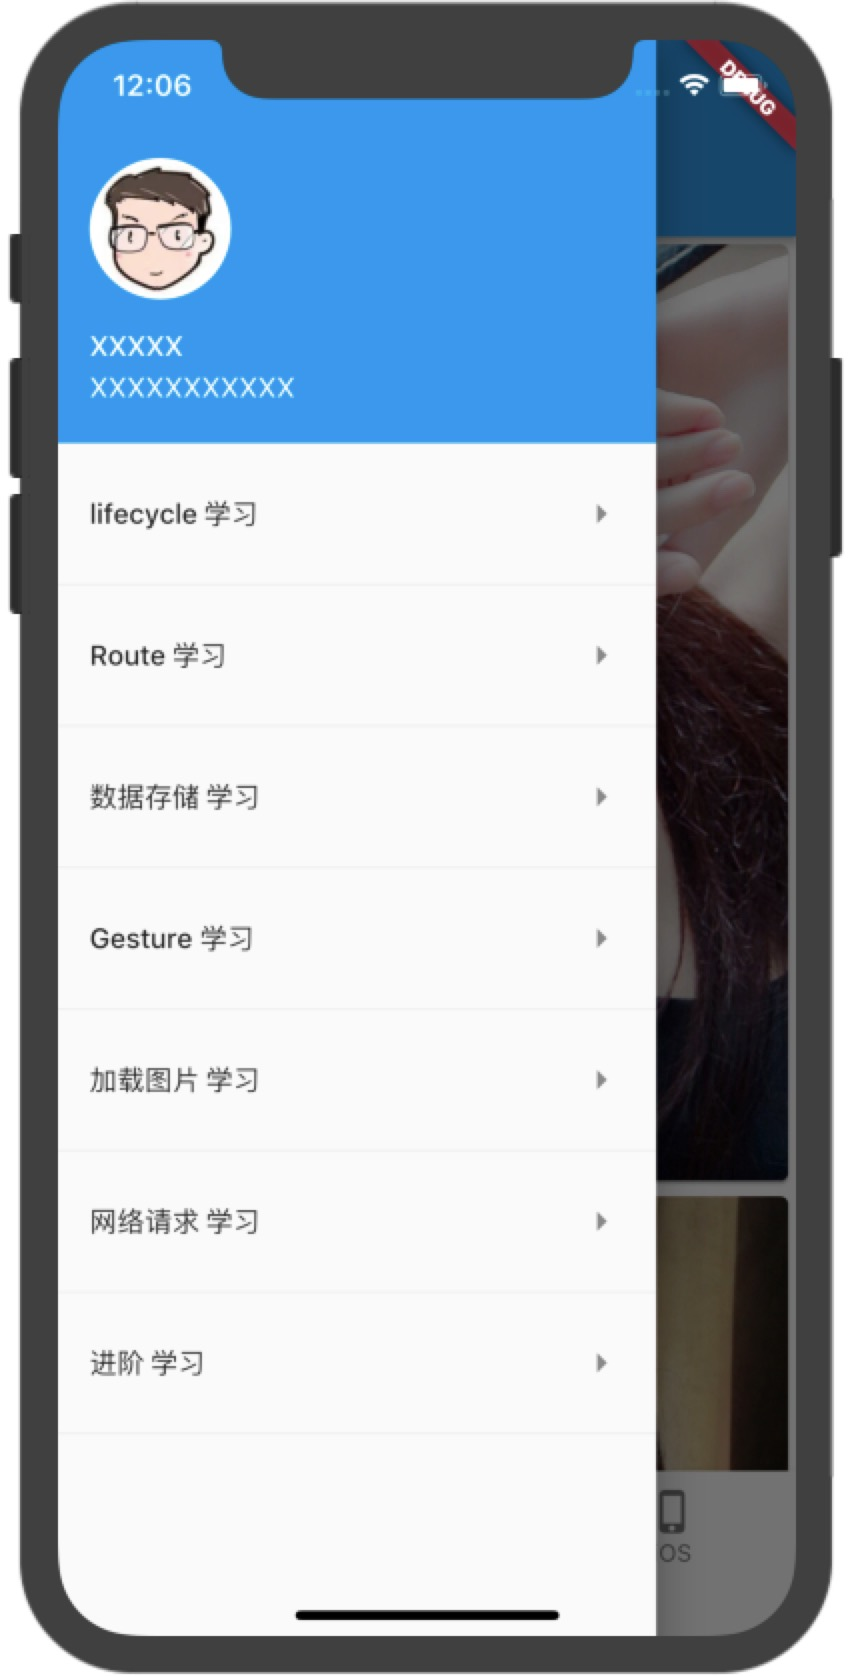
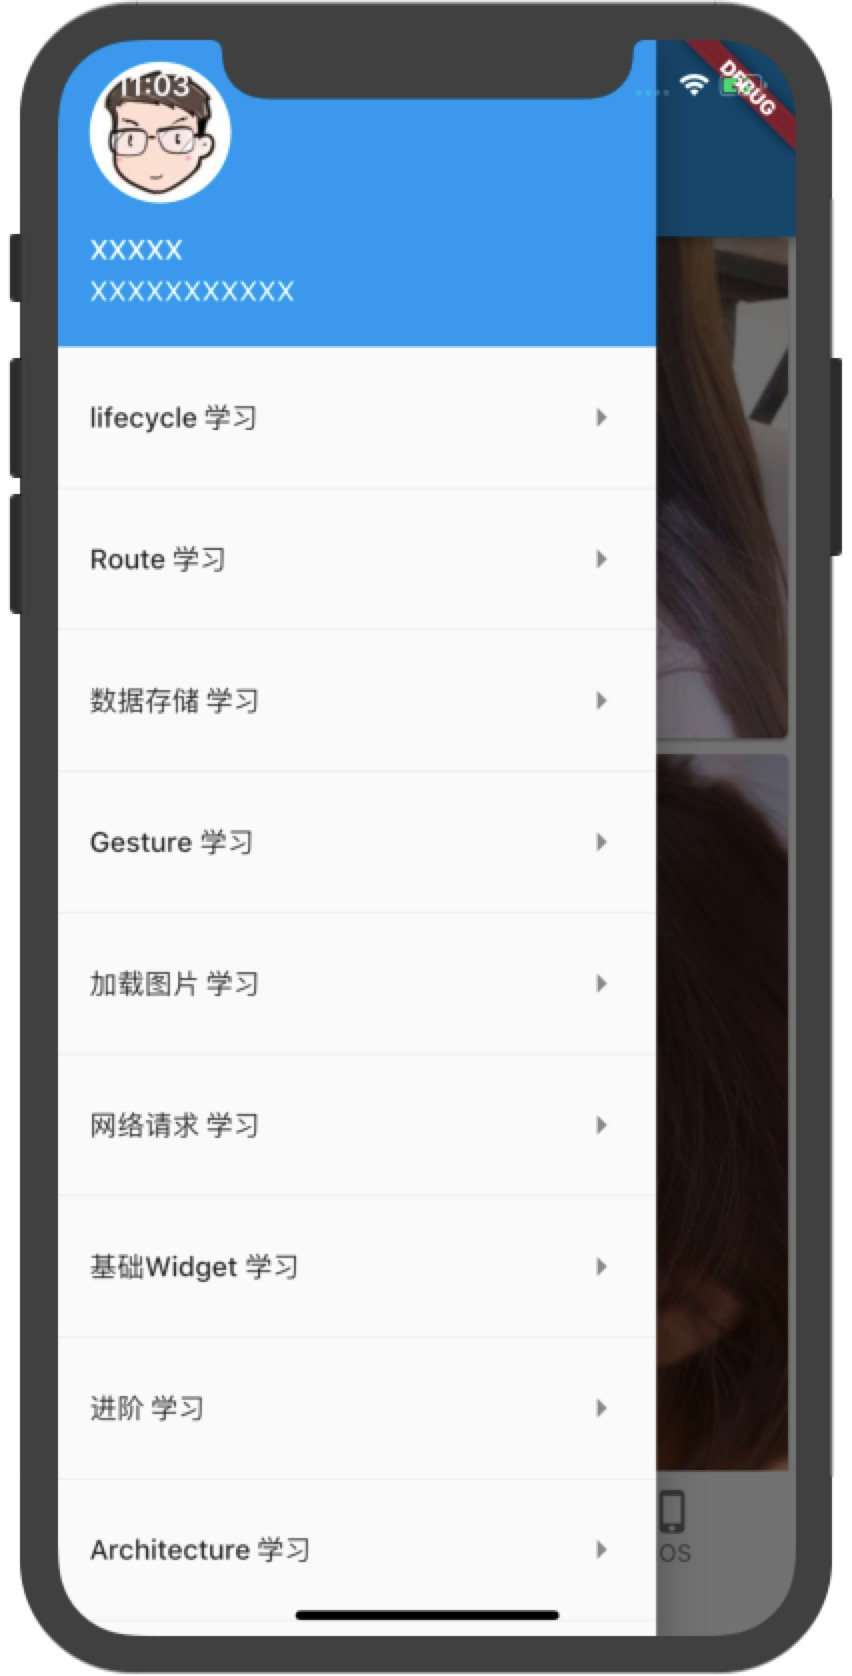
commit

diff --git a/lib/widget/architecture_page.dart b/lib/widget/architecture_page.dart
@@ -1,0 +1,45 @@
+import 'package:flutter/material.dart';
+
+class ArchitecturePage extends StatefulWidget {
+  @override
+  State<StatefulWidget> createState() {
+    // TODO: implement createState
+    return new _ArchitecturePageState();
+  }
+}
+
+class _ArchitecturePageState extends State<ArchitecturePage> {
+  @override
+  Widget build(BuildContext context) {
+    // TODO: implement build
+    return new Scaffold(
+      appBar: new AppBar(
+        title: new Text('Architecture 学习'),
+        centerTitle: true,
+      ),
+      body: new ListView(
+        children: <Widget>[
+          new Padding(
+            padding: const EdgeInsets.only(left: 10.0, top: 10.0, right: 10.0),
+            child: new RaisedButton(
+                textColor: Colors.black,
+                child: new Text('MVP(参考主页tab)'),
+                onPressed: () {
+                  Navigator.pushNamed(context, "/GlobalKeyFromPage");
+                }),
+          ),
+          new Padding(
+            padding: const EdgeInsets.only(left: 10.0, top: 10.0, right: 10.0),
+            child: new RaisedButton(
+                textColor: Colors.black,
+                child: new Text('BLoC'),
+                onPressed: () {
+                  Navigator.pushNamed(context, "/SearchPage");
+                }),
+          ),
+        ],
+      ),
+    );
+  }
+}
+

diff --git a/lib/main.dart b/lib/main.dart
@@ -1,5 +1,6 @@
 import 'package:flutter/material.dart';
 import 'package:flutter_localizations/flutter_localizations.dart';
+import 'package:flutter_study/widget/architecture_page.dart';
 import 'package:flutter_study/widget/demo_admob/admob_page.dart';
 import 'package:flutter_study/widget/advanced_page.dart';
 import 'package:flutter_study/widget/demo_animation/animation_page.dart';
@@ -60,5 +61,6 @@ void main() {
     '/AnimationPage': (BuildContext context) => new AnimationPage(),
     '/SearchPage': (BuildContext context) => new SearchPage(),
     '/HomePage': (BuildContext context) => new HomePage(),
+    '/ArchitecturePage': (BuildContext context) => new ArchitecturePage(),
   }, home: new HomePage()));
 }

diff --git a/lib/widget/advanced_page.dart b/lib/widget/advanced_page.dart
@@ -83,15 +83,6 @@ class _AdvancedPageState extends State<AdvancedPage> {
                   Navigator.pushNamed(context, "/AnimationPage");
                 }),
           ),
-          new Padding(
-            padding: const EdgeInsets.only(left: 10.0, top: 10.0, right: 10.0),
-            child: new RaisedButton(
-                textColor: Colors.black,
-                child: new Text('Bloc'),
-                onPressed: () {
-                  Navigator.pushNamed(context, "/SearchPage");
-                }),
-          ),
         ],
       ),
     );

diff --git a/lib/widget/drawer_page.dart b/lib/widget/drawer_page.dart
@@ -86,6 +86,14 @@ class _DrawerWeigetState extends State<DrawerWeiget> {
               Navigator.pushNamed(context, '/AdvancedPage');
             }),
         new Divider(),
+        new ListTile(
+            title: new Text('Architecture 学习'),
+            trailing: new Icon(Icons.arrow_right),
+            onTap: () {
+              Navigator.of(context).pop();
+              Navigator.pushNamed(context, '/ArchitecturePage');
+            }),
+        new Divider(),
       ],
     );
   }

diff --git a/lib/widget/demo_bloc/search_page.dart b/lib/widget/demo_bloc/search_page.dart
@@ -28,7 +28,7 @@ class _SearchPageState extends State<SearchPage> {
   Widget build(BuildContext context) {
     return new Scaffold(
         appBar: new AppBar(
-          title: new Text('Bloc'),
+          title: new Text('BLoC'),
           centerTitle: true,
         ),
         body: new Column(
